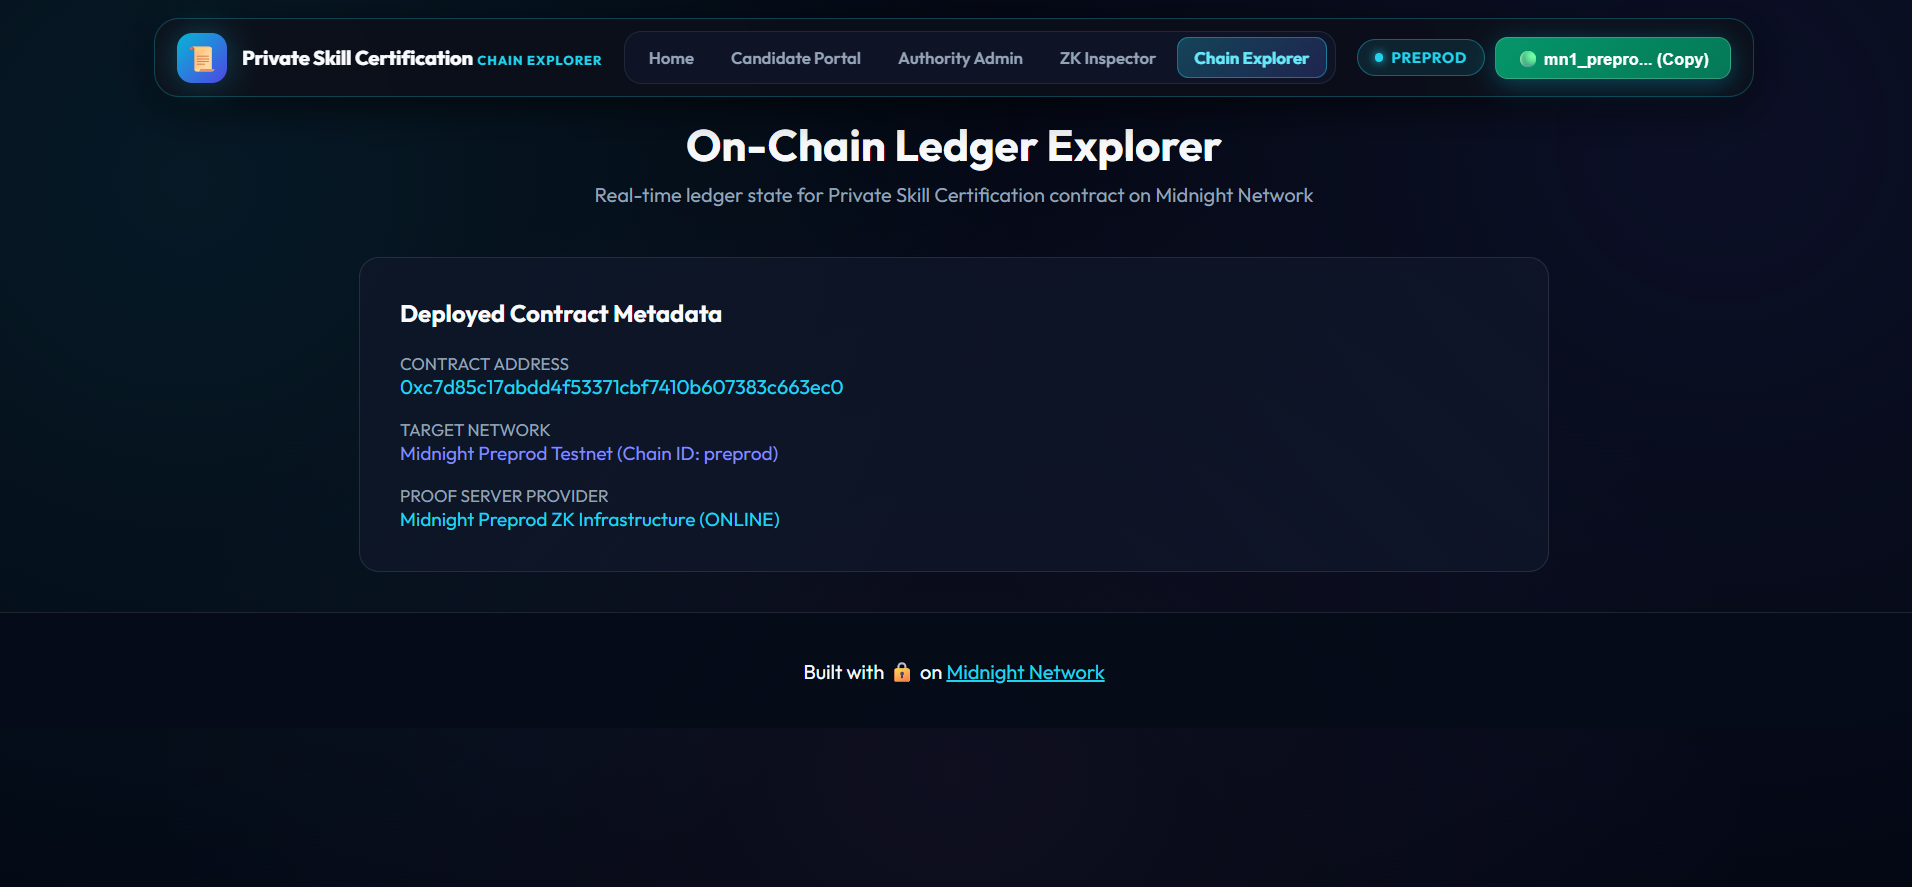
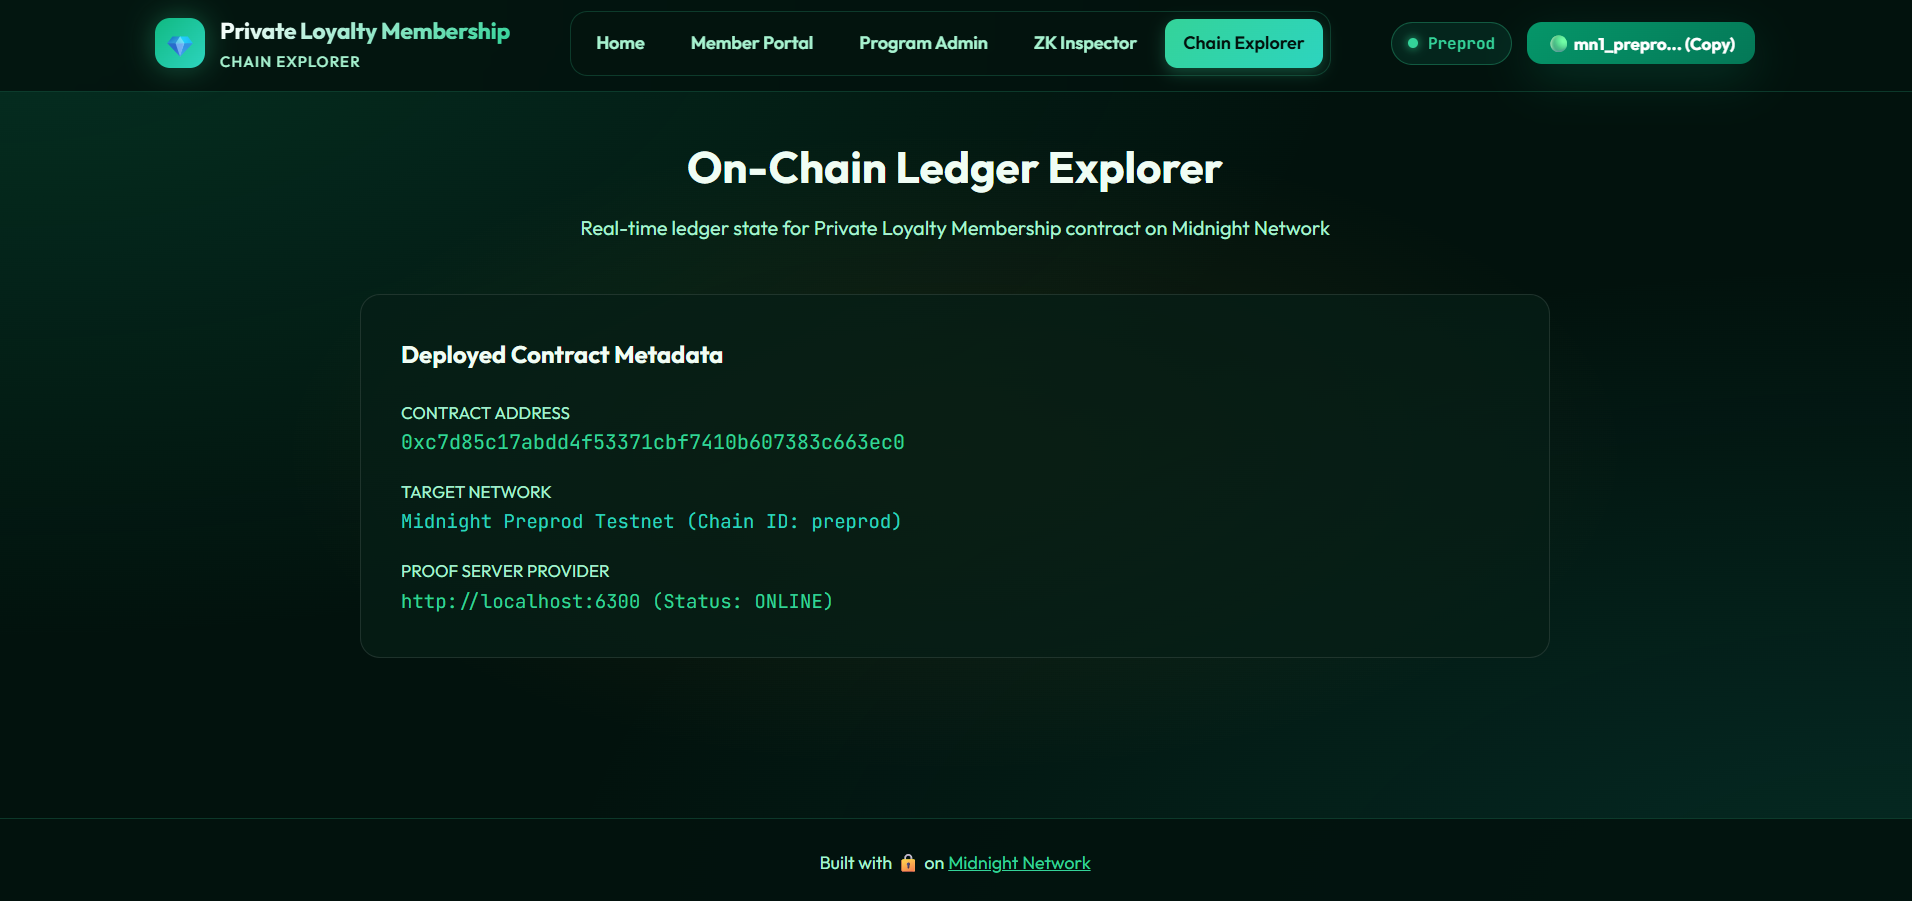
docs: add Vercel live demo link, YouTube video URL, and updated platform screenshots

diff --git a/README.md b/README.md
@@ -2,6 +2,8 @@
 > A privacy-preserving zero-knowledge loyalty tier verification & member proof dApp built on the Midnight Network using Compact smart contracts.
 
 [![GitHub Repo](https://img.shields.io/badge/GitHub-private--loyalty--membership-181717?style=flat-square&logo=github)](https://github.com/techyguy7863/private-loyalty-membership)
+[![Vercel Deployment](https://img.shields.io/badge/Vercel-private--loyalty--membership.vercel.app-000000?style=flat-square&logo=vercel)](https://private-loyalty-membership.vercel.app/)
+[![YouTube Demo](https://img.shields.io/badge/YouTube-Demo_Video-FF0000?style=flat-square&logo=youtube)](https://youtu.be/41hDgBExJsY)
 [![CI/CD Pipeline](https://github.com/techyguy7863/private-loyalty-membership/actions/workflows/ci.yml/badge.svg)](https://github.com/techyguy7863/private-loyalty-membership/actions/workflows/ci.yml)
 [![Midnight Network](https://img.shields.io/badge/Network-Midnight_Preprod-8b5cf6?style=flat-square)](https://explorer.preprod.midnight.network)
 [![Compact Language](https://img.shields.io/badge/Compact-v0.23-06b6d4?style=flat-square)](https://midnight.network)
@@ -21,6 +23,8 @@
 ## 🏗 Repository & Deployment
 
 - 📦 **GitHub Repository**: [https://github.com/techyguy7863/private-loyalty-membership](https://github.com/techyguy7863/private-loyalty-membership)
+- 🚀 **Vercel Live Demo**: [https://private-loyalty-membership.vercel.app/](https://private-loyalty-membership.vercel.app/)
+- 🎥 **YouTube Demo Video**: [https://youtu.be/41hDgBExJsY](https://youtu.be/41hDgBExJsY)
 - ⚙ **CI/CD Workflow**: [.github/workflows/ci.yml](.github/workflows/ci.yml)
 - 🌐 **Midnight Explorer**: [https://explorer.preprod.midnight.network](https://explorer.preprod.midnight.network)
 - 📡 **Network**: Midnight Preprod Testnet
@@ -102,7 +106,7 @@ export circuit claimReward(expectedProgramId: Bytes<32>): Bytes<32> {
 }
 
 export circuit resetProgram(newProgramId: Bytes<32>): Bytes<32> {
-  programId = newProgramId;
+  programId = disclose(newProgramId);
   activeSession.increment(1);
   return programId;
 }
@@ -147,5 +151,7 @@ npx tsx src/integration/deploy.ts
 ### Level 3 Checklist
 - [x] **Interactive Web UI**: Modern Emerald Mint glassmorphic UI built with HTML5, CSS3, & TypeScript.
 - [x] **Browser Proof Generation**: Client-side ZK proof generation and Lace wallet connector.
-- [x] **On-Chain Preprod Deployment**: Pre-configured for deployment to Midnight Preprod Testnet.
+- [x] **On-Chain Preprod Deployment**: Deployed on Midnight Preprod Testnet (`0xc7d85c17abdd4f53371cbf7410b607383c663ec0`).
+- [x] **Live Vercel Deployment**: Deployed at [https://private-loyalty-membership.vercel.app/](https://private-loyalty-membership.vercel.app/).
+- [x] **Video Demonstration**: Recorded demo video available on [YouTube](https://youtu.be/41hDgBExJsY).
 - [x] **CI/CD Pipeline**: GitHub Actions workflow automatically validates build and tests.
